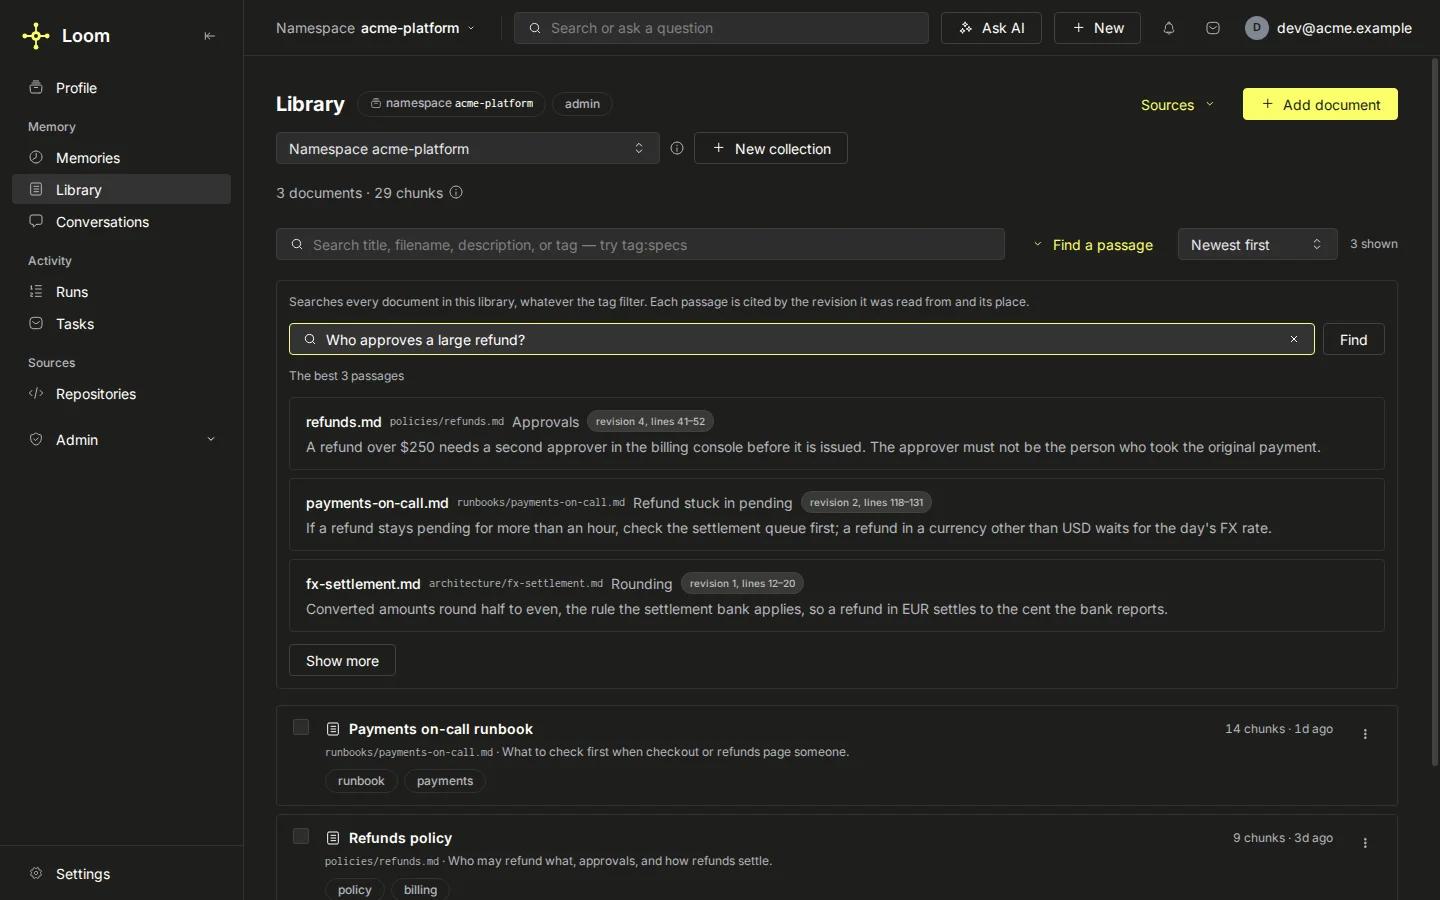
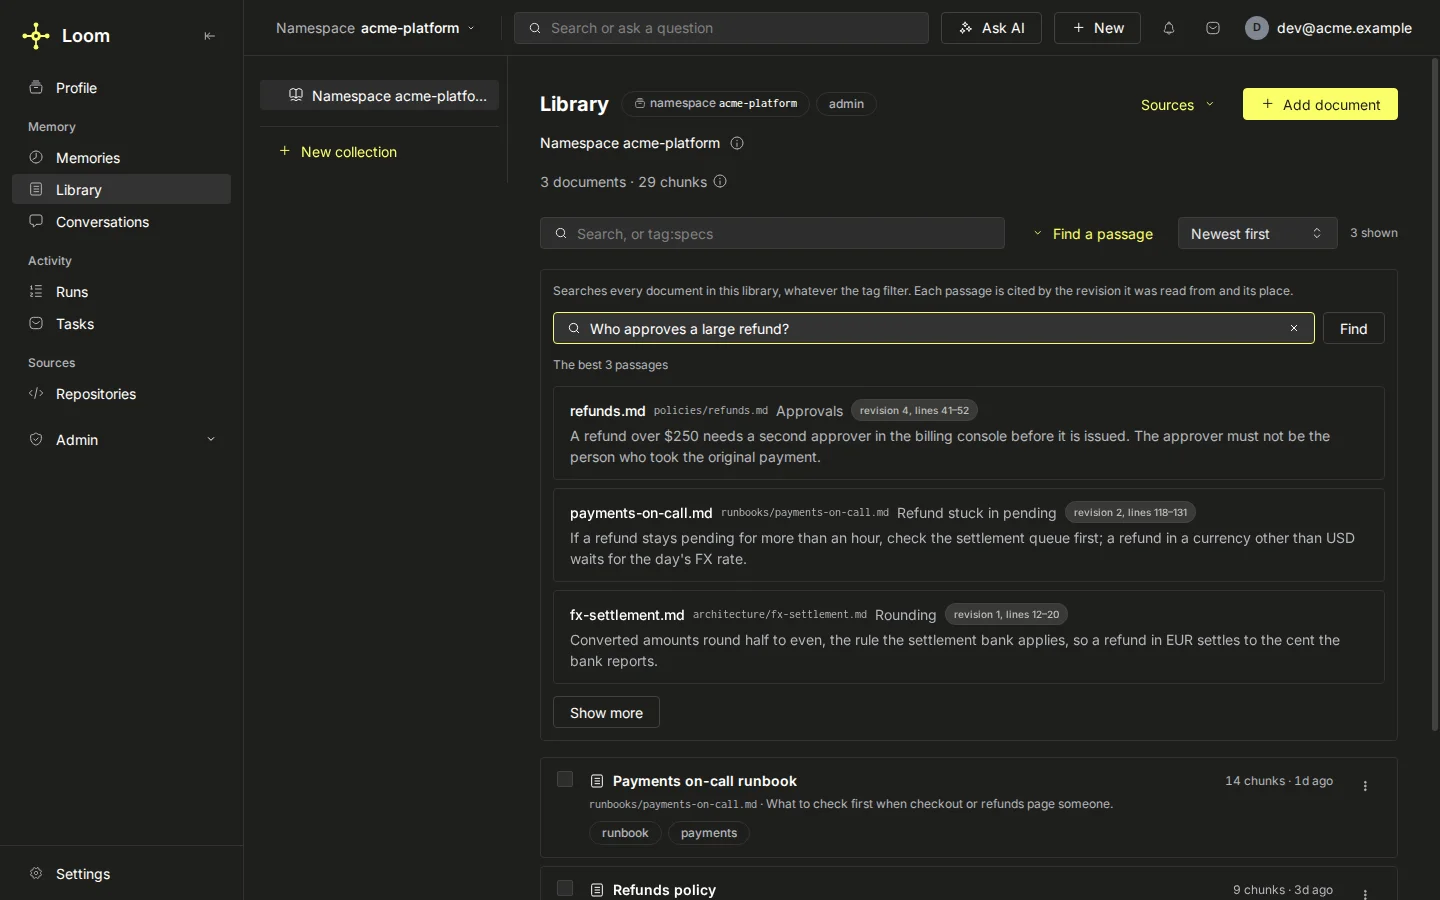
Name the namespace on the Library's place line beside the tree
Beside the tree, the namespace's place line starts with its name, as My
files does, instead of leaving the About button alone on its row. The
chips' landmark is "Inside {place}", so it no longer shares the tree
button's name. A collection change names the collection made as one
{ name, org } value, the tree's callbacks have named types, and the
document search screenshot shows the tree.

diff --git a/frontend/src/views/LibraryCollections.test.tsx b/frontend/src/views/LibraryCollections.test.tsx
@@ -458,7 +458,7 @@ describe("the Library on a collection", () => {
     // Inside a collection the chips on its path's line list what is inside, once.
     expect(screen.queryByRole("region", { name: /Collections/ })).toBeNull();
     // The first six, then Show more for the rest, with the focus on the first it adds.
-    const chips = screen.getByRole("navigation", { name: "Collections in col-q3" });
+    const chips = screen.getByRole("navigation", { name: "Inside col-q3" });
     expect(within(chips).getAllByRole("link", { name: /^col-q3 kid / })).toHaveLength(6);
     fireEvent.click(within(chips).getByRole("button", { name: "Show 4 more" }));
     expect(within(chips).getAllByRole("link", { name: /^col-q3 kid / })).toHaveLength(10);
@@ -467,7 +467,7 @@ describe("the Library on a collection", () => {
     // The next place starts at six again.
     fireEvent.click(within(chips).getByRole("link", { name: "col-q3 kid 0" }));
     await settle();
-    const next = screen.getByRole("navigation", { name: "Collections in col-q3 kid 0" });
+    const next = screen.getByRole("navigation", { name: "Inside col-q3 kid 0" });
     expect(within(next).getAllByRole("link")).toHaveLength(6);
     expect(within(next).getByRole("button", { name: "Show 4 more" })).toBeInTheDocument();
   });
@@ -599,7 +599,7 @@ describe("the Library on a collection", () => {
     await user.click(await screen.findByRole("button", { name: "Done" }));
     await waitFor(() => expect(api.listCollections.mock.calls.length).toBeGreaterThan(reads));
     expect(
-      await within(await screen.findByRole("navigation", { name: "Collections in col-q3" })).findByRole("link", {
+      await within(await screen.findByRole("navigation", { name: "Inside col-q3" })).findByRole("link", {
         name: "Q4",
       }),
     ).toBeInTheDocument();
@@ -711,7 +711,7 @@ describe("the Library on a collection", () => {
       await user.click(done);
       // Past the retry's wait.
       await act(() => vi.advanceTimersByTimeAsync(REFRESH_WAIT_MS + 100));
-      const chips = await screen.findByRole("navigation", { name: "Collections in col-q3" });
+      const chips = await screen.findByRole("navigation", { name: "Inside col-q3" });
       expect(await within(chips).findByRole("link", { name: "Q4" })).toBeInTheDocument();
     } finally {
       vi.useRealTimers();
@@ -1162,6 +1162,13 @@ describe("the Library on a collection", () => {
     history.replaceState(null, "", "/library");
     render(<Documents />, { container: inMain() });
     const tree = await screen.findByRole("navigation", { name: "Library places" });
+    await settle();
+    // Nor has the namespace: the path line names it too, before its About button.
+    const besideTree = () =>
+      [...document.querySelectorAll("main [aria-current='page']")].filter((el) => !tree.contains(el));
+    expect(besideTree().map((el) => el.textContent)).toEqual([
+      within(tree).getByRole("link", { current: "page" }).textContent,
+    ]);
     fireEvent.click(await within(tree).findByRole("link", { name: "col-q3" }));
     await settle();
     // The arrival App makes on a move focuses the row the move asked for and says its name.
@@ -1175,8 +1182,7 @@ describe("the Library on a collection", () => {
     fireEvent.click(within(tree).getByRole("link", { name: "My files" }));
     await settle();
     // My files has no path; the page's path line names it beside the tree.
-    const named = [...document.querySelectorAll("main [aria-current='page']")].filter((el) => !tree.contains(el));
-    expect(named.map((el) => el.textContent)).toEqual(["My files"]);
+    expect(besideTree().map((el) => el.textContent)).toEqual(["My files"]);
   });
 
   describe("where <main> can be measured", () => {

diff --git a/frontend/src/views/LibraryCollections.tsx b/frontend/src/views/LibraryCollections.tsx
@@ -103,10 +103,10 @@ export const REFRESH_TRIES = 3;
 export const REFRESH_WAIT_MS = 1000;
 
 /** The collections the caller can read in `org` (`collection.list`), every page. `reload`
- *  clears `rows` until its answer; a write elsewhere keeps them. `shown`: the collection the
+ *  clears `rows` until its answer; a write elsewhere keeps them. `showing`: the collection the
  *  page shows; a refresh that leaves it out reads again, up to `REFRESH_TRIES` times, before
  *  it counts as gone. */
-export function useReadableCollections(org: string, shown = ""): ReadableCollections {
+export function useReadableCollections(org: string, showing = ""): ReadableCollections {
   const [answer, setAnswer] = useState<{
     org: string;
     reloads: number;
@@ -130,16 +130,20 @@ export function useReadableCollections(org: string, shown = ""): ReadableCollect
   useEffect(
     () =>
       // A collection made in another org is not waited for here.
-      onCollectionsChanged((made, madeIn) =>
-        setAsked((r) => ({ ...r, refreshes: r.refreshes + 1, expect: { org: madeIn || org, name: made } })),
+      onCollectionsChanged((made) =>
+        setAsked((r) => ({
+          ...r,
+          refreshes: r.refreshes + 1,
+          expect: { org: made?.org ?? org, name: made?.name ?? "" },
+        })),
       ),
     [org],
   );
   const expected = asked.expect.org === org ? asked.expect.name : "";
   // The collection shown, once the page's last reload is answered and lists it. The read
-  // effect captures it when it starts: `shown` changing restarts no read.
+  // effect captures it when it starts: `showing` changing restarts no read.
   const answered = answer?.org === org && answer.reloads === asked.reloads;
-  const hold = answered && answer.rows.some((c) => c.namespace === shown) ? shown : "";
+  const hold = answered && answer.rows.some((c) => c.namespace === showing) ? showing : "";
   useAbortableEffect(
     (signal, live) => {
       setError(null);
@@ -330,10 +334,11 @@ export function LibraryCollections({
             named={besideTree}
           />
         )}
-        {/* My files has no path; beside the tree no select names it either. */}
-        {besideTree && current?.personal && (
+        {/* My files and the namespace have no path; beside the tree no select names them either,
+            so the line starts with the place's name, not the About button alone. */}
+        {besideTree && (current?.personal || (!current && !opening && namespace !== null)) && (
           <span aria-current="page" className="text-sm">
-            {collectionTitle(current)}
+            {current ? collectionTitle(current) : `Namespace ${namespace}`}
           </span>
         )}
         {phone && collection && (

diff --git a/frontend/src/views/LibraryTree.tsx b/frontend/src/views/LibraryTree.tsx
@@ -35,6 +35,12 @@ import {
 /** A tree row's `data-focus-key`: the page's move to a place picked here focuses its row. */
 export const placeFocusKey = (collection: string | null) => `library-tree-place-${collection ?? ""}`;
 
+/** Show a place picked in the tree, focusing `arriveFocus` and saying `note` on arrival. */
+export type PickPlace = (collection: string | null, arriveFocus: string, note: string) => void;
+
+/** Open a collection made in the tree, in `org`, focusing `arriveFocus` on arrival. */
+export type MadeCollection = (collection: string, org: string, arriveFocus: string) => void;
+
 /** New collection's `data-focus-key`: the page's move to a collection made here focuses it. */
 export const NEW_COLLECTION_FOCUS = "library-new-collection";
 
@@ -156,11 +162,11 @@ export const LibraryTree = memo(function LibraryTree({
   current: string | null;
   /** `arriveFocus`: the picked row's focus key, so the person stays in the tree; `note`: the
    *  place's name, said on arrival. */
-  onPick: (collection: string | null, arriveFocus: string, note: string) => void;
+  onPick: PickPlace;
   /** A collection made here, in `org`: read the list again and open it. It can land after
    *  the tree is gone (a resize, or a move to another org). `arriveFocus`: New collection's
    *  focus key, so the person goes on there. */
-  onCreated: (collection: string, org: string, arriveFocus: string) => void;
+  onCreated: MadeCollection;
 }) {
   // What the person opened, remembered for the next visit.
   const [open, setOpen] = useState<Set<string>>(() => loadExpanded(org));
@@ -397,7 +403,7 @@ function PlaceRow({
   here: boolean;
   expanded?: boolean;
   onToggle?: () => void;
-  onPick: (collection: string | null, arriveFocus: string, note: string) => void;
+  onPick: PickPlace;
 }) {
   const focusKey = placeFocusKey(collection);
   return (
@@ -441,7 +447,7 @@ function NewCollectionForm({
   parent: string;
   label: string;
   onClose: () => void;
-  onCreated: (collection: string, org: string, arriveFocus: string) => void;
+  onCreated: MadeCollection;
 }) {
   const [title, setTitle] = useState("");
   const [busy, setBusy] = useState(false);

diff --git a/frontend/src/views/LibraryHierarchy.test.tsx b/frontend/src/views/LibraryHierarchy.test.tsx
@@ -319,7 +319,7 @@ describe("CollectionChips", () => {
       entry("col-kid", { parent: "col-team", title: "Kid" }),
     ];
     render(<CollectionChips rows={rows} repeated={repeatedTitles(rows)} collection={rows[0]} onPick={() => {}} />);
-    const nav = screen.getByRole("navigation", { name: "Collections in Team" });
+    const nav = screen.getByRole("navigation", { name: "Inside Team" });
     expect(
       within(nav)
         .getAllByRole("link")
@@ -334,7 +334,7 @@ describe("CollectionChips", () => {
       entry("col-a-kid", { parent: "col-a", title: "Kid" }),
     ];
     render(<CollectionChips rows={rows} repeated={repeatedTitles(rows)} collection={rows[0]} onPick={() => {}} />);
-    expect(screen.getByRole("navigation", { name: "Collections in Notes (col-a)" })).toBeInTheDocument();
+    expect(screen.getByRole("navigation", { name: "Inside Notes (col-a)" })).toBeInTheDocument();
   });
 
   it("shows six, then fifty more at a time, the focus on the first chip the last press adds", () => {
@@ -343,7 +343,7 @@ describe("CollectionChips", () => {
       ...Array.from({ length: 60 }, (_, i) => entry(`col-k${i}`, { parent: "col-team", title: `Kid ${i}` })),
     ];
     render(<CollectionChips rows={rows} repeated={repeatedTitles(rows)} collection={rows[0]} onPick={() => {}} />);
-    const nav = screen.getByRole("navigation", { name: "Collections in Team" });
+    const nav = screen.getByRole("navigation", { name: "Inside Team" });
     expect(within(nav).getAllByRole("link")).toHaveLength(6);
     const more = within(nav).getByRole("button", { name: "Show 50 more" });
     more.focus();

diff --git a/frontend/src/lib/collectionPlaces.ts b/frontend/src/lib/collectionPlaces.ts
@@ -21,19 +21,22 @@ export function sharedCollections(org: string): Promise<CollectionListPage> {
   return shared(`${COLLECTIONS_KEY}${org}`, 30_000, () => listCollections(org));
 }
 
-const changeListeners = new Set<(made: string, org: string) => void>();
+/** A collection a write just created: its name and its org. */
+export type Made = { name: string; org: string };
+
+const changeListeners = new Set<(made?: Made) => void>();
 
 /** For a write that changes a collection: the next asker reads `collection.list` afresh, and
  *  the Library's lists (useReadableCollections) read it again, asking again a few times while
- *  `made` (a collection just created in `org`), when named, is not listed yet. */
-export function invalidateSharedCollections(made = "", org = ""): void {
+ *  `made`, when given, is not listed yet. */
+export function invalidateSharedCollections(made?: Made): void {
   invalidateShared(COLLECTIONS_KEY);
-  for (const listener of changeListeners) listener(made, org);
+  for (const listener of changeListeners) listener(made);
 }
 
-/** Call `listener` after each write to a collection, with the collection it made, if any, and
- *  its org; returns the unsubscribe. */
-export function onCollectionsChanged(listener: (made: string, org: string) => void): () => void {
+/** Call `listener` after each write to a collection, with the collection it made, if any;
+ *  returns the unsubscribe. */
+export function onCollectionsChanged(listener: (made?: Made) => void): () => void {
   changeListeners.add(listener);
   return () => {
     changeListeners.delete(listener);

diff --git a/frontend/e2e/library-tree.spec.ts b/frontend/e2e/library-tree.spec.ts
@@ -34,7 +34,7 @@ test.describe("1440 px", () => {
     await expect(page).toHaveTitle("Engineering · Library · Loom");
     // Opening it shows what is inside, in the tree and as chips on the path's line.
     await expect(tree.getByRole("link", { name: "Runbooks" })).toBeVisible();
-    const chips = page.getByRole("navigation", { name: "Collections in Engineering" });
+    const chips = page.getByRole("navigation", { name: "Inside Engineering" });
     await expect(chips.getByRole("link")).toHaveText(["RFCs", "Runbooks"]);
     await chips.getByRole("link", { name: "Runbooks" }).click();
     await expect(page).toHaveURL(/collection=col-runbooks/);
@@ -225,7 +225,7 @@ test.describe("1100 px", () => {
     await open(page, "/library?collection=col-eng");
     await expect(page.getByRole("navigation", { name: "Library places" })).toHaveCount(0);
     await expect(page.getByLabel("Show the documents of")).toBeVisible();
-    await expect(page.getByRole("navigation", { name: "Collections in Engineering" }).getByRole("link")).toHaveCount(2);
+    await expect(page.getByRole("navigation", { name: "Inside Engineering" }).getByRole("link")).toHaveCount(2);
     // The chips list them: no second list below the documents.
     await expect(page.getByRole("region", { name: /Collections/ })).toHaveCount(0);
   });

diff --git a/frontend/src/flows/BatchUpload.test.tsx b/frontend/src/flows/BatchUpload.test.tsx
@@ -1462,7 +1462,7 @@ describe("BatchUpload", () => {
       ]);
       // Closing has the Library read its collections again, waiting for the one made.
       expect(vi.mocked(invalidateSharedCollections).mock.calls.length).toBe(told + 1);
-      expect(invalidateSharedCollections).toHaveBeenLastCalledWith("col-sub", "o");
+      expect(invalidateSharedCollections).toHaveBeenLastCalledWith({ name: "col-sub", org: "o" });
     });
 
     it("lists the Library's collections again on close when a Stop cut a collection's create short", async () => {
@@ -1497,6 +1497,8 @@ describe("BatchUpload", () => {
       await user.click(done);
       held.next = null;
       expect(vi.mocked(invalidateSharedCollections).mock.calls.length).toBe(told + 1);
+      // Nothing was made: no collection to wait for.
+      expect(invalidateSharedCollections).toHaveBeenLastCalledWith(undefined);
     });
 
     it("lists the Library's collections again on close when the upload gave a listed one a title", async () => {

diff --git a/frontend/e2e/back-restores-place.spec.ts b/frontend/e2e/back-restores-place.spec.ts
@@ -177,7 +177,8 @@ test("a sidebar jump focuses the new page's h1 and says where it went", async ({
   await expect(page).toHaveURL(new RegExp(`/library\\?namespace=${NAMESPACE}$`));
   await expect(page.getByRole("heading", { level: 1, name: "Library" })).toBeFocused();
   await expect(page.locator("#loom-nav-status")).toHaveText("Library");
-  await expect(page).toHaveTitle("Library · Loom");
+  // The tab names the place shown too.
+  await expect(page).toHaveTitle(`Namespace ${NAMESPACE} · Library · Loom`);
   // Back is not a new navigation: the Memories h1 takes the focus, the list at its top.
   await page.goBack();
   await expect(page.getByRole("heading", { level: 1, name: "Memories" })).toBeFocused();

diff --git a/frontend/e2e/library.spec.ts b/frontend/e2e/library.spec.ts
@@ -162,7 +162,7 @@ test.describe("a collection's path at 1400 px", () => {
     await expect(path).toBeVisible();
     // The path and the chips share one line; the tree stands in for the select.
     await expect(page.getByRole("button", { name: "Show the documents of" })).toHaveCount(0);
-    const chips = page.getByRole("navigation", { name: "Collections in Interview notes" });
+    const chips = page.getByRole("navigation", { name: "Inside Interview notes" });
     await expect(chips.getByRole("link")).toHaveCount(6);
     await expect(chips.getByRole("button", { name: "Show 2 more" })).toBeVisible();
     expect(Math.abs((await boxOf(path)).y - (await boxOf(chips)).y)).toBeLessThan(16);

diff --git a/frontend/src/flows/BatchUpload.tsx b/frontend/src/flows/BatchUpload.tsx
@@ -306,7 +306,10 @@ export function BatchUpload({
   // What the check read of each collection, whole or cut at its limit, for the upload to start from.
   const checkedSources = useRef(new Map<string, Map<string, KeptFields>>());
   const leave = () => {
-    if (foldersSent.current) invalidateSharedCollections(madeHere.current[0], identity.org);
+    if (foldersSent.current) {
+      const first = madeHere.current[0];
+      invalidateSharedCollections(first ? { name: first, org: identity.org } : undefined);
+    }
     onClose();
   };
   const cancelling = useRef(false);

diff --git a/frontend/src/views/LibraryHierarchy.tsx b/frontend/src/views/LibraryHierarchy.tsx
@@ -540,7 +540,7 @@ export function CollectionChips({
   const { shown, list, more, showMore } = useShowMore(inside, FIRST_SHOWN);
   if (!collection || inside.length === 0) return null;
   return (
-    <nav aria-label={`Collections in ${distinctTitle(collection, repeated)}`} className="library-chips">
+    <nav aria-label={`Inside ${distinctTitle(collection, repeated)}`} className="library-chips">
       <ul ref={list}>
         {shown.map((c) => (
           <li key={c.namespace} data-collection={c.namespace}>
